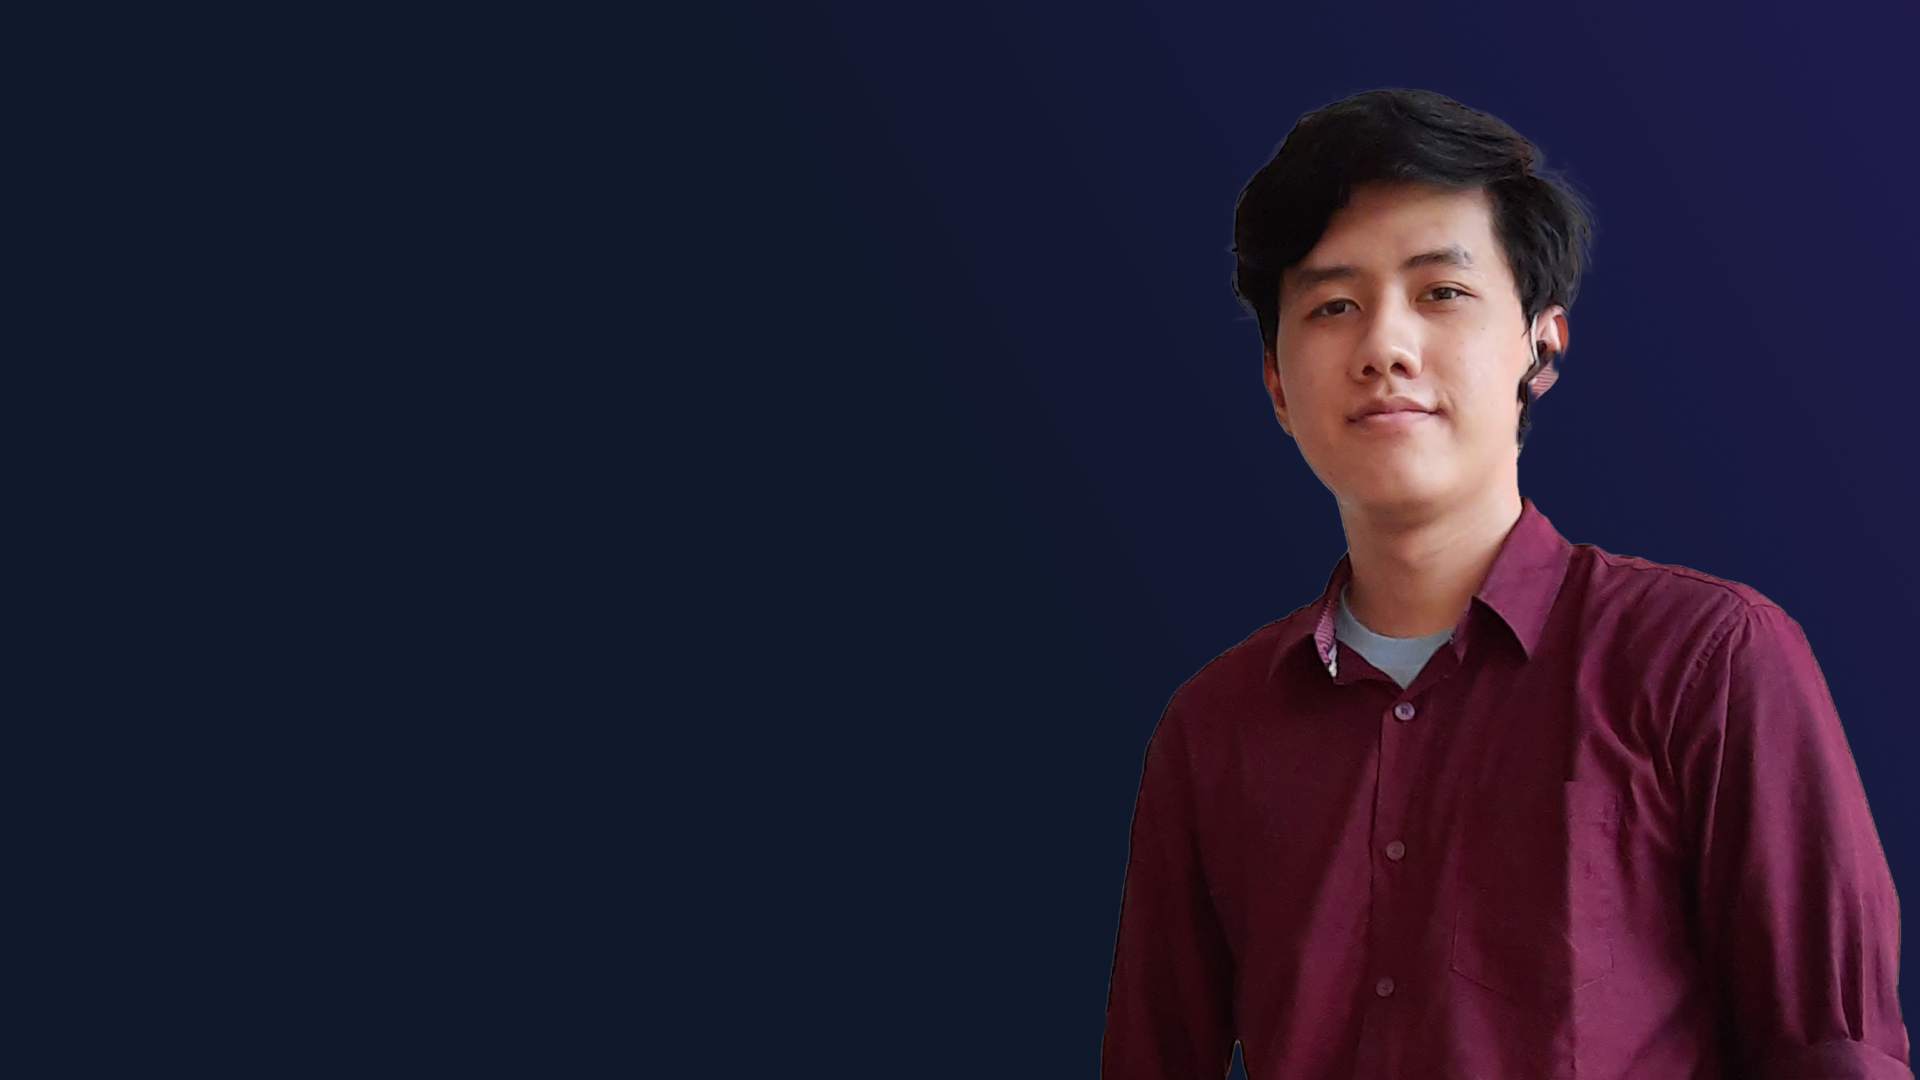
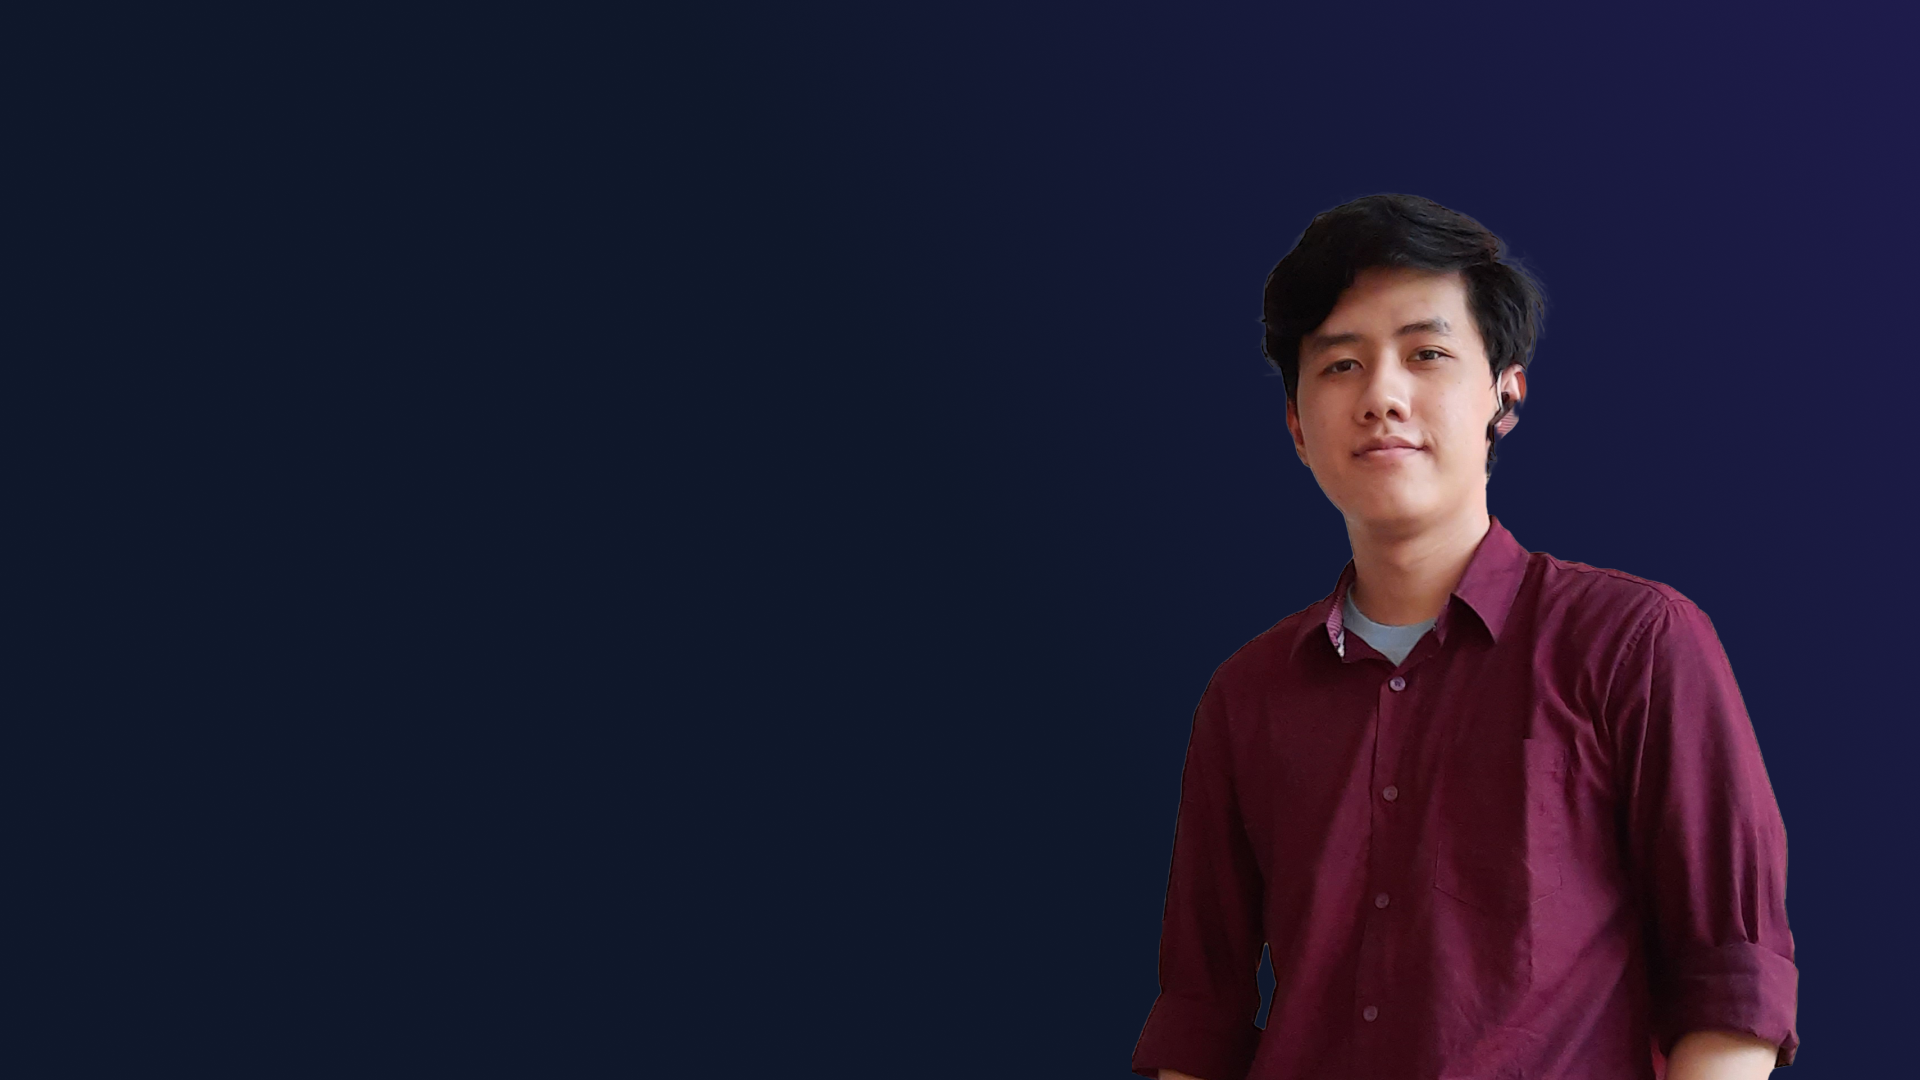
Update 24 November 2023

Changed region(s): [[0.5625, 0.0611, 1.0, 1.0]]

diff --git a/index.html b/index.html
@@ -59,6 +59,7 @@
         <div class="social">
           <a href="#"><i class="ri-instagram-line"></i></a>
           <a href="#"><i class="ri-github-fill"></i></a>
+          <a href="#"><i class="ri-linkedin-fill"></i></a>
         </div>
 
         <div class="main-btn">
@@ -123,6 +124,230 @@
             </div>
           </div>
           <h4>Final Project S1</h4>
+        </div>
+        <div class="row">
+          <img src="./img/portfolio/port-2.png" />
+          <div class="main-row">
+            <div class="row-text">
+              <h5>OK.Docs Apps</h5>
+            </div>
+            <div class="row-icon">
+              <a
+                href="https://github.com/makbarramadhan62/ok-docs-managemant-apps"
+                target="_blank"
+                ><i class="ri-github-fill"></i
+              ></a>
+            </div>
+          </div>
+          <h4>PT Otak Kanan</h4>
+        </div>
+        <div class="row">
+          <img src="./img/portfolio/port-2.png" />
+          <div class="main-row">
+            <div class="row-text">
+              <h5>OK.Docs Apps</h5>
+            </div>
+            <div class="row-icon">
+              <a
+                href="https://github.com/makbarramadhan62/ok-docs-managemant-apps"
+                target="_blank"
+                ><i class="ri-github-fill"></i
+              ></a>
+            </div>
+          </div>
+          <h4>PT Otak Kanan</h4>
+        </div>
+        <div class="row">
+          <img src="./img/portfolio/port-2.png" />
+          <div class="main-row">
+            <div class="row-text">
+              <h5>OK.Docs Apps</h5>
+            </div>
+            <div class="row-icon">
+              <a
+                href="https://github.com/makbarramadhan62/ok-docs-managemant-apps"
+                target="_blank"
+                ><i class="ri-github-fill"></i
+              ></a>
+            </div>
+          </div>
+          <h4>PT Otak Kanan</h4>
+        </div>
+        <div class="row">
+          <img src="./img/portfolio/port-2.png" />
+          <div class="main-row">
+            <div class="row-text">
+              <h5>OK.Docs Apps</h5>
+            </div>
+            <div class="row-icon">
+              <a
+                href="https://github.com/makbarramadhan62/ok-docs-managemant-apps"
+                target="_blank"
+                ><i class="ri-github-fill"></i
+              ></a>
+            </div>
+          </div>
+          <h4>PT Otak Kanan</h4>
+        </div>
+        <div class="row">
+          <img src="./img/portfolio/port-2.png" />
+          <div class="main-row">
+            <div class="row-text">
+              <h5>OK.Docs Apps</h5>
+            </div>
+            <div class="row-icon">
+              <a
+                href="https://github.com/makbarramadhan62/ok-docs-managemant-apps"
+                target="_blank"
+                ><i class="ri-github-fill"></i
+              ></a>
+            </div>
+          </div>
+          <h4>PT Otak Kanan</h4>
+        </div>
+        <div class="row">
+          <img src="./img/portfolio/port-2.png" />
+          <div class="main-row">
+            <div class="row-text">
+              <h5>OK.Docs Apps</h5>
+            </div>
+            <div class="row-icon">
+              <a
+                href="https://github.com/makbarramadhan62/ok-docs-managemant-apps"
+                target="_blank"
+                ><i class="ri-github-fill"></i
+              ></a>
+            </div>
+          </div>
+          <h4>PT Otak Kanan</h4>
+        </div>
+        <div class="row">
+          <img src="./img/portfolio/port-2.png" />
+          <div class="main-row">
+            <div class="row-text">
+              <h5>OK.Docs Apps</h5>
+            </div>
+            <div class="row-icon">
+              <a
+                href="https://github.com/makbarramadhan62/ok-docs-managemant-apps"
+                target="_blank"
+                ><i class="ri-github-fill"></i
+              ></a>
+            </div>
+          </div>
+          <h4>PT Otak Kanan</h4>
+        </div>
+        <div class="row">
+          <img src="./img/portfolio/port-2.png" />
+          <div class="main-row">
+            <div class="row-text">
+              <h5>OK.Docs Apps</h5>
+            </div>
+            <div class="row-icon">
+              <a
+                href="https://github.com/makbarramadhan62/ok-docs-managemant-apps"
+                target="_blank"
+                ><i class="ri-github-fill"></i
+              ></a>
+            </div>
+          </div>
+          <h4>PT Otak Kanan</h4>
+        </div>
+        <div class="row">
+          <img src="./img/portfolio/port-2.png" />
+          <div class="main-row">
+            <div class="row-text">
+              <h5>OK.Docs Apps</h5>
+            </div>
+            <div class="row-icon">
+              <a
+                href="https://github.com/makbarramadhan62/ok-docs-managemant-apps"
+                target="_blank"
+                ><i class="ri-github-fill"></i
+              ></a>
+            </div>
+          </div>
+          <h4>PT Otak Kanan</h4>
+        </div>
+        <div class="row">
+          <img src="./img/portfolio/port-2.png" />
+          <div class="main-row">
+            <div class="row-text">
+              <h5>OK.Docs Apps</h5>
+            </div>
+            <div class="row-icon">
+              <a
+                href="https://github.com/makbarramadhan62/ok-docs-managemant-apps"
+                target="_blank"
+                ><i class="ri-github-fill"></i
+              ></a>
+            </div>
+          </div>
+          <h4>PT Otak Kanan</h4>
+        </div>
+        <div class="row">
+          <img src="./img/portfolio/port-2.png" />
+          <div class="main-row">
+            <div class="row-text">
+              <h5>OK.Docs Apps</h5>
+            </div>
+            <div class="row-icon">
+              <a
+                href="https://github.com/makbarramadhan62/ok-docs-managemant-apps"
+                target="_blank"
+                ><i class="ri-github-fill"></i
+              ></a>
+            </div>
+          </div>
+          <h4>PT Otak Kanan</h4>
+        </div>
+        <div class="row">
+          <img src="./img/portfolio/port-2.png" />
+          <div class="main-row">
+            <div class="row-text">
+              <h5>OK.Docs Apps</h5>
+            </div>
+            <div class="row-icon">
+              <a
+                href="https://github.com/makbarramadhan62/ok-docs-managemant-apps"
+                target="_blank"
+                ><i class="ri-github-fill"></i
+              ></a>
+            </div>
+          </div>
+          <h4>PT Otak Kanan</h4>
+        </div>
+        <div class="row">
+          <img src="./img/portfolio/port-2.png" />
+          <div class="main-row">
+            <div class="row-text">
+              <h5>OK.Docs Apps</h5>
+            </div>
+            <div class="row-icon">
+              <a
+                href="https://github.com/makbarramadhan62/ok-docs-managemant-apps"
+                target="_blank"
+                ><i class="ri-github-fill"></i
+              ></a>
+            </div>
+          </div>
+          <h4>PT Otak Kanan</h4>
+        </div>
+        <div class="row">
+          <img src="./img/portfolio/port-2.png" />
+          <div class="main-row">
+            <div class="row-text">
+              <h5>OK.Docs Apps</h5>
+            </div>
+            <div class="row-icon">
+              <a
+                href="https://github.com/makbarramadhan62/ok-docs-managemant-apps"
+                target="_blank"
+                ><i class="ri-github-fill"></i
+              ></a>
+            </div>
+          </div>
+          <h4>PT Otak Kanan</h4>
         </div>
         <div class="row">
           <img src="./img/portfolio/port-2.png" />

diff --git a/style.css b/style.css
@@ -226,8 +226,8 @@ header.sticky {
 
 .about-img img {
   width: 100%;
-  height: 530px;
-  max-width: 530px;
+  height: 400px;
+  max-width: 400px;
   border-radius: 50%;
   -webkit-border-radius: 50%;
   -moz-border-radius: 50%;
